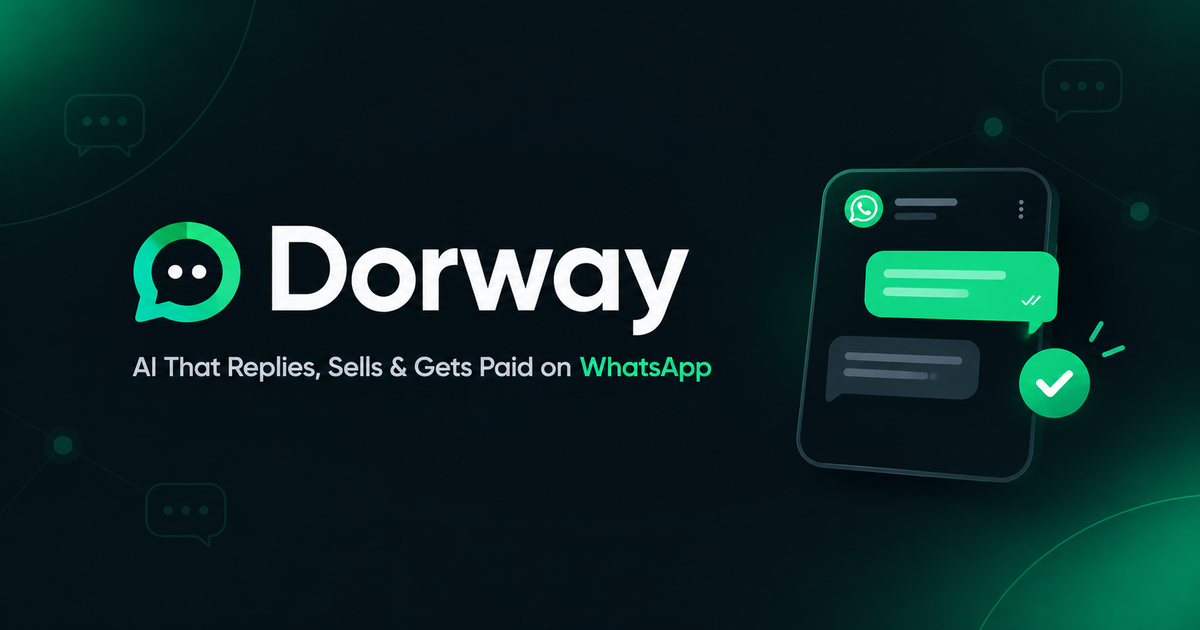
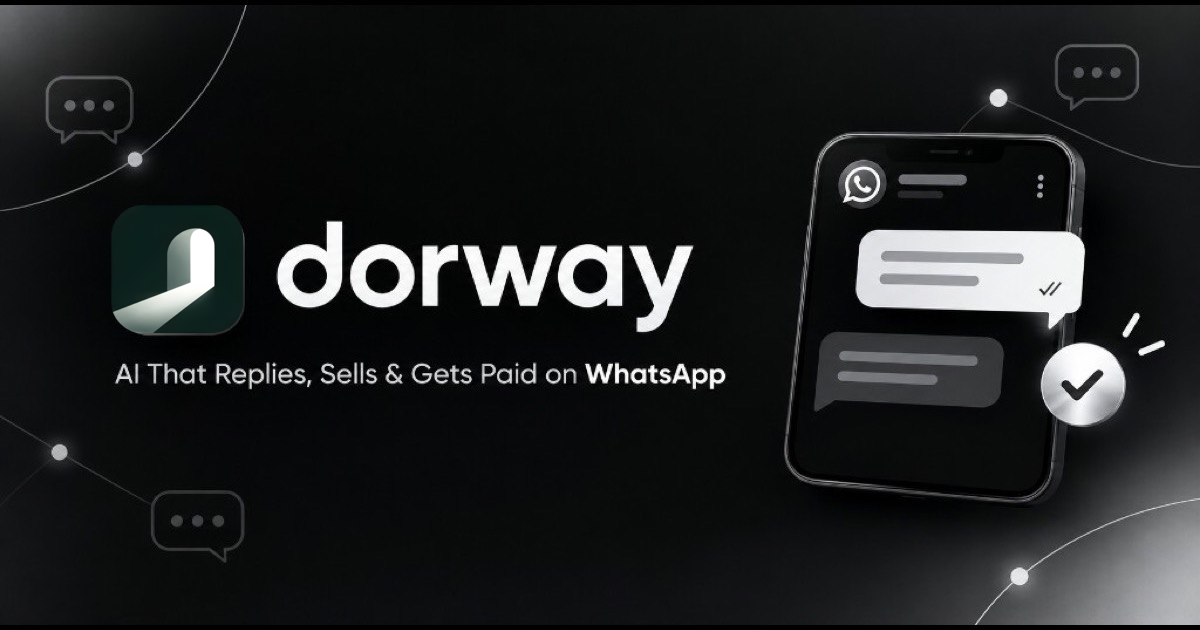
Update Dorway brand mark across the site and share cards.
Swap every surface to the new doorway logo so landing, admin, partners, favicons, and link previews stay consistent.

diff --git a/web/src/pages/DorwayLanding.jsx b/web/src/pages/DorwayLanding.jsx
@@ -616,25 +616,23 @@ function Avatar({ name, i = 0, size }) {
   );
 }
 
-/** Doorway mark: an arch with an opening. Used in logo, app mockups, radial core. */
-function Mark({ size = 36, dark = true, accent = true }) {
-  const bg = dark ? "#12211C" : "#FFFFFF";
-  const fg = dark ? "#FFFFFF" : "#12211C";
+/** Doorway mark: used in logo, app mockups, radial core. */
+function Mark({ size = 36 }) {
   return (
-    <svg width={size} height={size} viewBox="0 0 40 40" aria-hidden="true">
-      <rect width="40" height="40" rx="11" fill={bg} />
-      <path d="M12 31V19a8 8 0 0 1 16 0v12" fill="none" stroke={fg} strokeWidth="3.4" strokeLinecap="round" />
-      {accent && (
-        <path d="M17.5 31v-9.5a2.5 2.5 0 0 1 5 0V31" fill="none" stroke="#5FD3A1" strokeWidth="3.4" strokeLinecap="round" />
-      )}
-    </svg>
+    <img
+      src="/logo.png"
+      width={size}
+      height={size}
+      alt=""
+      style={{ display: "block", borderRadius: size * 0.275, objectFit: "contain" }}
+    />
   );
 }
 
 function Logo() {
   return (
     <a href="#top" className="dw-logo" aria-label={`${CONFIG.brand} home`}>
-      <Mark size={38} accent={false} />
+      <Mark size={38} />
       <span>{CONFIG.brand.toLowerCase()}</span>
     </a>
   );
@@ -1376,7 +1374,7 @@ function AISection() {
         <div className="dw-ai">
           <div className="dw-ask">
             <div style={{ display: "flex", alignItems: "center", gap: 10, marginBottom: 18 }}>
-              <Mark size={28} dark={false} />
+              <Mark size={28} />
               <strong style={{ fontFamily: "var(--display)", fontSize: 20 }}>Ask {CONFIG.brand}</strong>
             </div>
             <div className="dw-ask__input"><Sparkles size={17} color="#5FD3A1" /><span>{ASK_EXAMPLES[idx].q}</span></div>
@@ -1475,7 +1473,7 @@ function Agencies() {
         <div className="dw-radial">
           <div aria-hidden="true">
             {[560, 430, 310, 200].map((s) => <span key={s} className="dw-radial__ring" style={{ width: s, height: s }} />)}
-            <span className="dw-radial__core"><Mark size={64} dark={false} /></span>
+            <span className="dw-radial__core"><Mark size={64} /></span>
           </div>
           <ul style={{ listStyle: "none", margin: 0, padding: 0 }}>
             {AGENCY_USES.map((u) => (

diff --git a/web/index.html b/web/index.html
@@ -6,14 +6,19 @@
     <title>Dorway — WhatsApp CRM for teams that sell through conversations</title>
     <meta name="description" content="Every enquiry lands in one shared inbox on your own WhatsApp Business number. Leads get assigned automatically, follow-ups run on their own, and nothing lives on anyone's personal phone." />
 
-    <meta property="og:title" content="Dorway — WhatsApp CRM for teams that sell through conversations" />
+    <meta property="og:title" content="Dorway — AI That Replies, Sells & Gets Paid on WhatsApp" />
     <meta property="og:description" content="Your number, your WhatsApp Business Account, your data. Shared inbox, automatic lead assignment, and follow-ups that actually happen." />
     <meta property="og:type" content="website" />
-    <meta property="og:image" content="/og-image.png" />
+    <meta property="og:image" content="https://dorwayai.com/og-image.png?v=3" />
+    <meta property="og:image:secure_url" content="https://dorwayai.com/og-image.png?v=3" />
+    <meta property="og:image:type" content="image/png" />
     <meta property="og:image:width" content="1200" />
     <meta property="og:image:height" content="630" />
+    <meta property="og:image:alt" content="dorway — AI That Replies, Sells & Gets Paid on WhatsApp" />
     <meta name="twitter:card" content="summary_large_image" />
-    <meta name="twitter:image" content="/og-image.png" />
+    <meta name="twitter:title" content="Dorway — AI That Replies, Sells & Gets Paid on WhatsApp" />
+    <meta name="twitter:image" content="https://dorwayai.com/og-image.png?v=3" />
+    <meta name="twitter:image:alt" content="dorway — AI That Replies, Sells & Gets Paid on WhatsApp" />
 
     <link rel="icon" type="image/svg+xml" href="/favicon.svg" />
     <link rel="icon" type="image/png" sizes="32x32" href="/favicon-32.png" />

diff --git a/web/src/pages/Login.tsx b/web/src/pages/Login.tsx
@@ -93,14 +93,15 @@ const AUTH_STYLES = `
 }
 `;
 
-function Mark({ size = 36, dark = true }: { size?: number; dark?: boolean }) {
-  const bg = dark ? "#12211C" : "#FFFFFF";
-  const fg = dark ? "#FFFFFF" : "#12211C";
+function Mark({ size = 36 }: { size?: number }) {
   return (
-    <svg width={size} height={size} viewBox="0 0 40 40" aria-hidden="true">
-      <rect width="40" height="40" rx="11" fill={bg} />
-      <path d="M12 31V19a8 8 0 0 1 16 0v12" fill="none" stroke={fg} strokeWidth="3.4" strokeLinecap="round" />
-    </svg>
+    <img
+      src="/logo.png"
+      width={size}
+      height={size}
+      alt=""
+      style={{ display: "block", borderRadius: size * 0.275, objectFit: "contain" }}
+    />
   );
 }
 
@@ -214,7 +215,7 @@ export function Login() {
         <aside className="dw-auth__side">
           <ArchPattern id="dw-arch-login" />
           <div className="dw-glow" aria-hidden="true" />
-          <Link to="/" className="dw-logo"><Mark dark={false} /><span>dorway</span></Link>
+          <Link to="/" className="dw-logo"><Mark /><span>dorway</span></Link>
           <img src="/login-left.png" alt="Shared WhatsApp inbox: every enquiry lands in one shared inbox, assigned, followed up, and never lost." className="dw-auth__side-img" />
           <p style={{ color: "#8FA89C", fontSize: 13.5 }}>Your number is only used to verify you and send account updates on WhatsApp.</p>
         </aside>

diff --git a/web/src/pages/partners/DorwayPartners.jsx b/web/src/pages/partners/DorwayPartners.jsx
@@ -502,21 +502,22 @@ const STYLES_EXTRA = `
    PRIMITIVES
    ============================================================ */
 
-function Mark({ size = 36, dark = true }) {
-  const bg = dark ? "#12211C" : "#FFFFFF";
-  const fg = dark ? "#FFFFFF" : "#12211C";
+function Mark({ size = 36 }) {
   return (
-    <svg width={size} height={size} viewBox="0 0 40 40" aria-hidden="true">
-      <rect width="40" height="40" rx="11" fill={bg} />
-      <path d="M12 31V19a8 8 0 0 1 16 0v12" fill="none" stroke={fg} strokeWidth="3.4" strokeLinecap="round" />
-    </svg>
+    <img
+      src="/logo.png"
+      width={size}
+      height={size}
+      alt=""
+      style={{ display: "block", borderRadius: size * 0.275, objectFit: "contain" }}
+    />
   );
 }
 
 function Logo({ dark = true, to = "/partners" }) {
   return (
     <Link to={to} className="dw-logo" aria-label={`${PROGRAM.brand} Partners home`}>
-      <Mark size={36} dark={dark} />
+      <Mark size={36} />
       <span>{PROGRAM.brand.toLowerCase()}</span>
       <span className="dw-logo__tag">Partners</span>
     </Link>

diff --git a/web/src/components/Logo.tsx b/web/src/components/Logo.tsx
@@ -1,13 +1,9 @@
 import { Link } from "react-router-dom";
 
-/** Same mark as the landing header: dark tile, white door arch, no inner stroke. */
 export function Logo() {
   return (
     <Link to="/" className="logo" aria-label="Dorway home">
-      <svg width="32" height="32" viewBox="0 0 40 40" aria-hidden="true">
-        <rect width="40" height="40" rx="11" fill="#12211C" />
-        <path d="M12 31V19a8 8 0 0 1 16 0v12" fill="none" stroke="#FFFFFF" strokeWidth="3.4" strokeLinecap="round" />
-      </svg>
+      <img src="/logo.png" width="32" height="32" alt="" className="logo-mark" />
       <span className="logo-text">dorway</span>
     </Link>
   );

diff --git a/web/src/pages/admin/AdminLogin.tsx b/web/src/pages/admin/AdminLogin.tsx
@@ -5,12 +5,7 @@ import { api, ApiError } from "../../lib/api";
 import { adminHomePath } from "../../lib/adminHost";
 
 function Mark() {
-  return (
-    <svg width="40" height="40" viewBox="0 0 40 40" aria-hidden="true">
-      <rect width="40" height="40" rx="11" fill="#12211C" />
-      <path d="M12 31V19a8 8 0 0 1 16 0v12" fill="none" stroke="#FFFFFF" strokeWidth="3.4" strokeLinecap="round" />
-    </svg>
-  );
+  return <img src="/logo.png" width="40" height="40" alt="" style={{ display: "block", borderRadius: 11, objectFit: "contain" }} />;
 }
 
 export function AdminLogin() {

diff --git a/web/src/pages/admin/AdminShell.tsx b/web/src/pages/admin/AdminShell.tsx
@@ -49,12 +49,7 @@ function searchResultHref(group: string, id: string): string | null {
 }
 
 function Mark() {
-  return (
-    <svg width="28" height="28" viewBox="0 0 40 40" aria-hidden="true">
-      <rect width="40" height="40" rx="11" fill="#12211C" />
-      <path d="M12 31V19a8 8 0 0 1 16 0v12" fill="none" stroke="#FFFFFF" strokeWidth="3.4" strokeLinecap="round" />
-    </svg>
-  );
+  return <img src="/logo.png" width="28" height="28" alt="" style={{ display: "block", borderRadius: 8, objectFit: "contain" }} />;
 }
 
 export function AdminShell() {

diff --git a/web/src/styles/design-system.css b/web/src/styles/design-system.css
@@ -240,7 +240,7 @@ button:focus-visible,
   gap: 8px;
   color: var(--ink);
 }
-.logo svg { height: 32px; width: auto; }
+.logo-mark { height: 32px; width: 32px; display: block; object-fit: contain; }
 .logo-text {
   font-family: 'Comfortaa', cursive;
   font-weight: 700;
